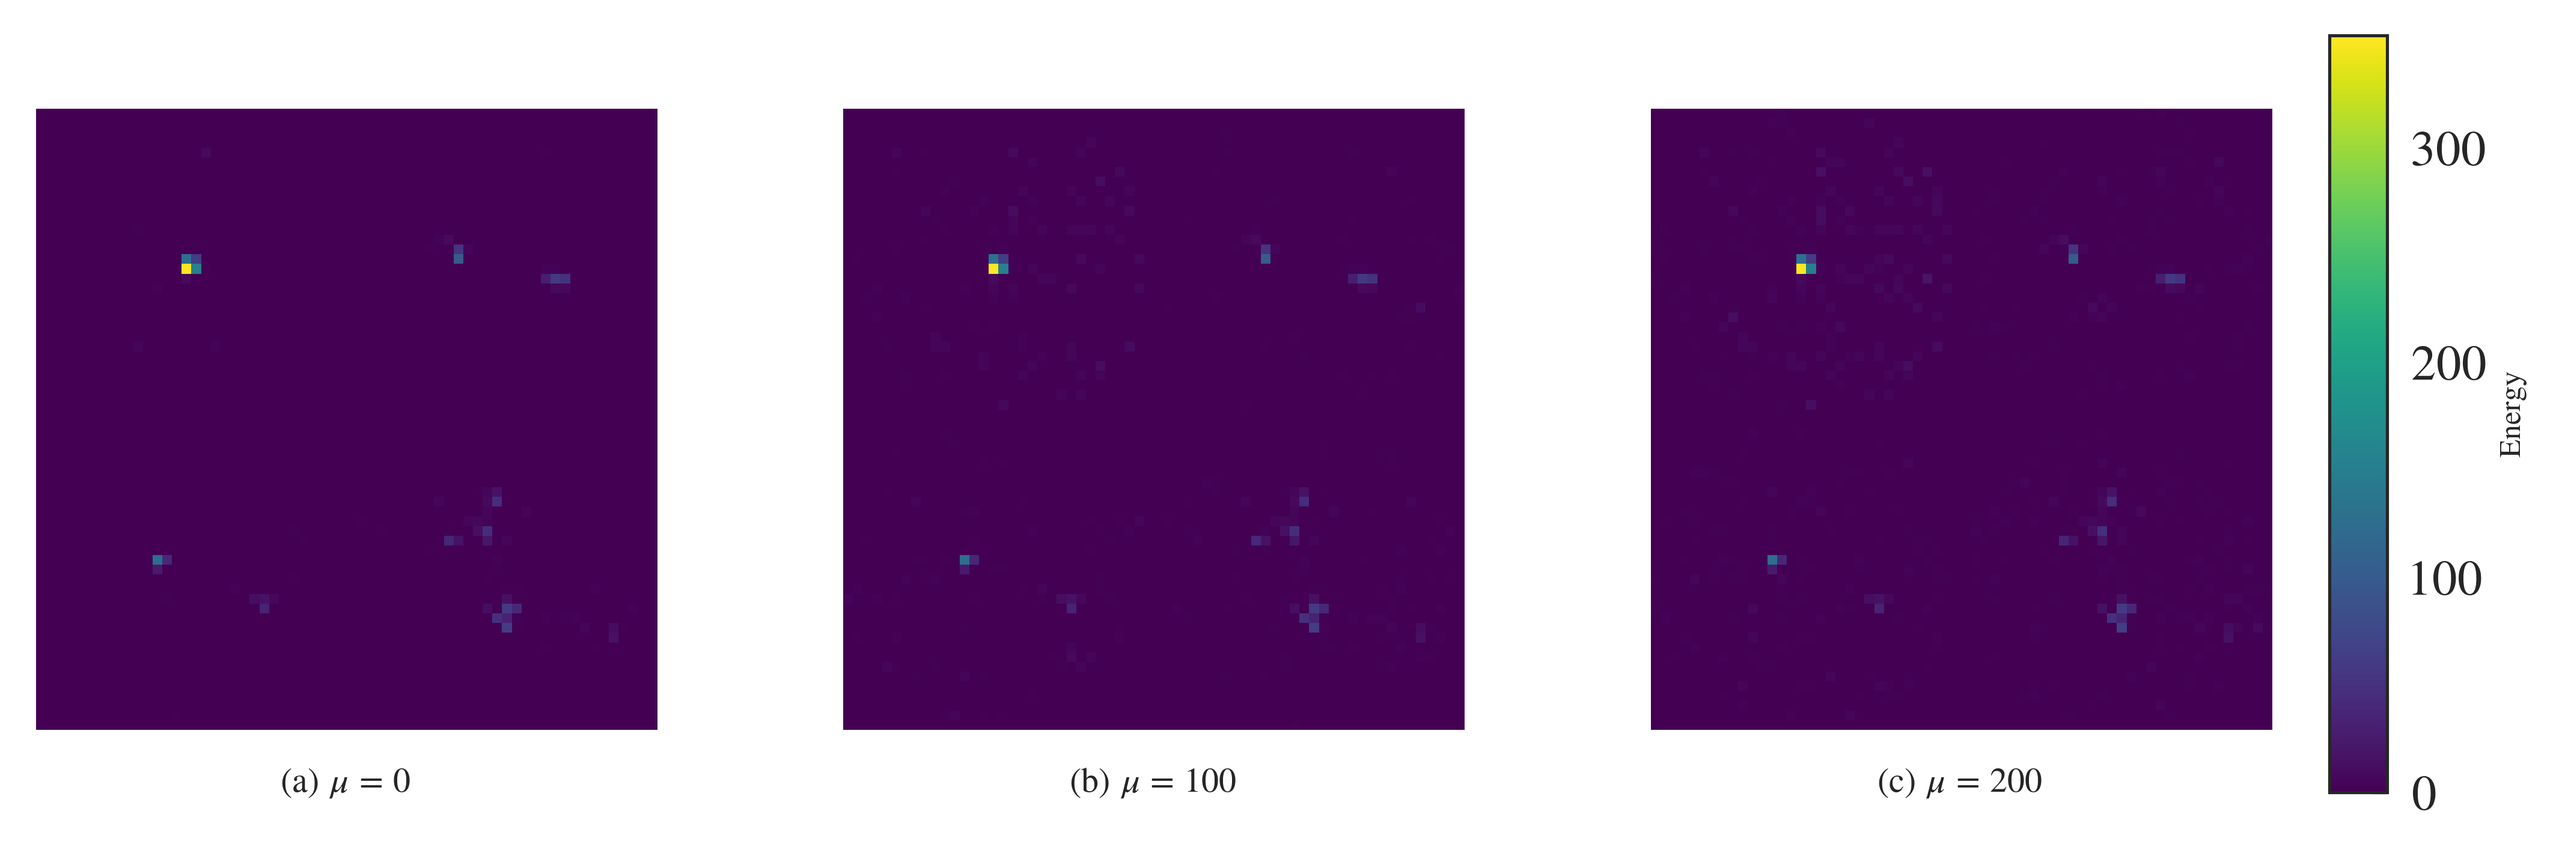
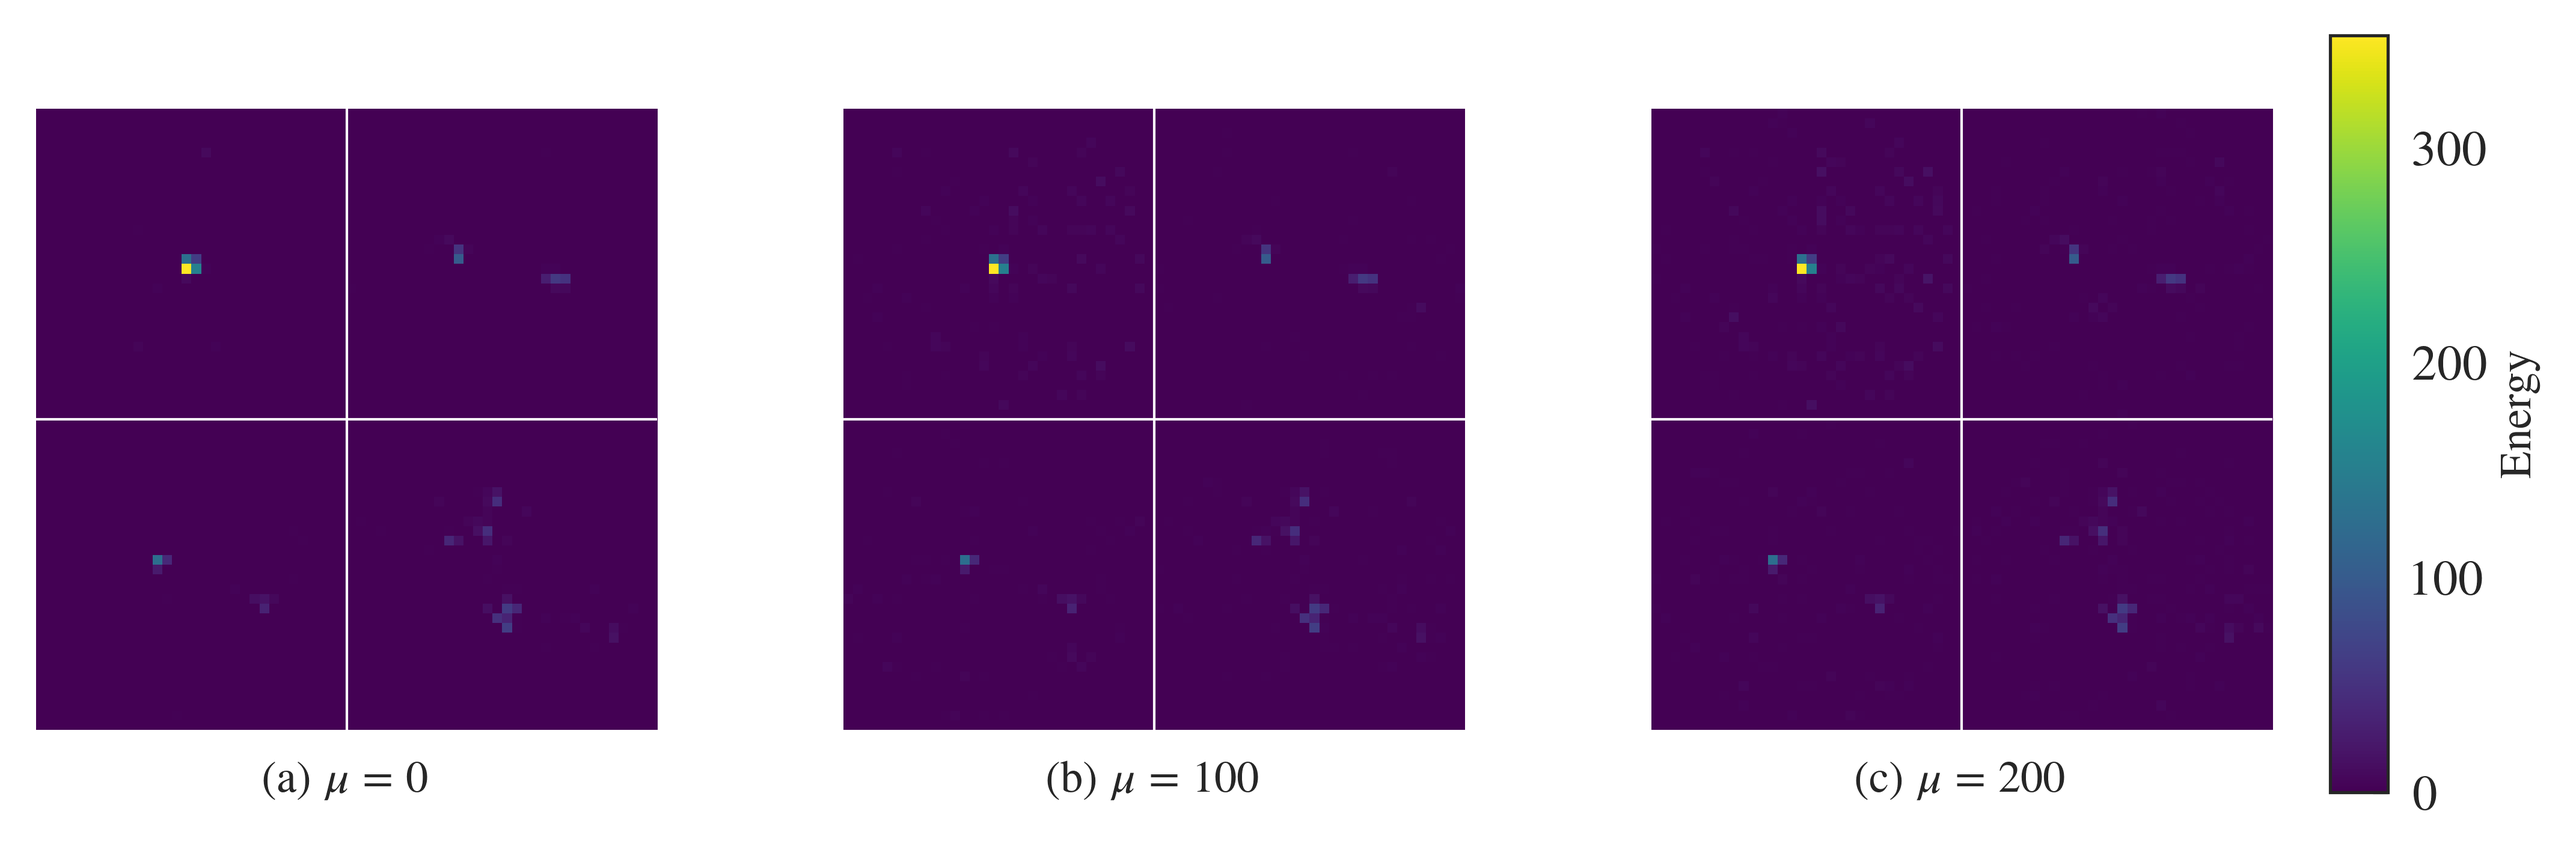
Add separating lines

diff --git a/DDPMLHC/generate_plots/bmap.py b/DDPMLHC/generate_plots/bmap.py
@@ -40,7 +40,7 @@ def plot_mu_comparison(tt, pile_up, use_log=False, save_path=None):
     # Get mu values
     mu_values = [0, 100, 200]
     vmin, vmax = float('inf'), -float('inf')
-    
+
     # Store random state
     rng_state = np.random.get_state()
     
@@ -75,28 +75,31 @@ def plot_mu_comparison(tt, pile_up, use_log=False, save_path=None):
         combined_grid[:grid_size, grid_size:] = grids[1]
         combined_grid[grid_size:, :grid_size] = grids[2]
         combined_grid[grid_size:, grid_size:] = grids[3]
-        
-        # Add thin white lines between jets
-        combined_grid[grid_size-1:grid_size+1, :] = vmin
-        combined_grid[:, grid_size-1:grid_size+1] = vmin
-        
+
         im = main_axes[idx].imshow(combined_grid, 
-                                 cmap='viridis',
-                                 vmin=vmin,
-                                 vmax=vmax,
-                                 interpolation='nearest')
+                                    cmap='viridis',
+                                    vmin=vmin,
+                                    vmax=vmax,
+                                    norm=None,  # Add this to prevent automatic normalization
+                                    interpolation='nearest')
+        
+        # Add grid lines to separate events
+        main_axes[idx].axhline(y=grid_size-0.5, color='white', linewidth=1)
+        main_axes[idx].axvline(x=grid_size-0.5, color='white', linewidth=1)
         
         # Move mu label to bottom
         main_axes[idx].text(0.5, -0.1, f'{letter} $\mu = {mu}$',
                           transform=main_axes[idx].transAxes,
-                          fontsize=14, ha='center')
+                          fontsize=18, ha='center')
         
         main_axes[idx].axis('off')
     
+    print(f"Maximum energy in any pixel: {max([grid.max() for grids in all_grids for grid in grids]):.4f}")
+
     # Add colorbar with proper spacing
     cbar_ax = fig.add_axes([0.92, 0.15, 0.02, 0.7])
     cbar = fig.colorbar(im, cax=cbar_ax)
-    cbar.set_label('log(E + 1)' if use_log else 'Energy', fontsize=12)
+    cbar.set_label('$\ln(1+E)$' if use_log else 'Energy', fontsize=18)
     
     # Save if path provided
     if save_path:
